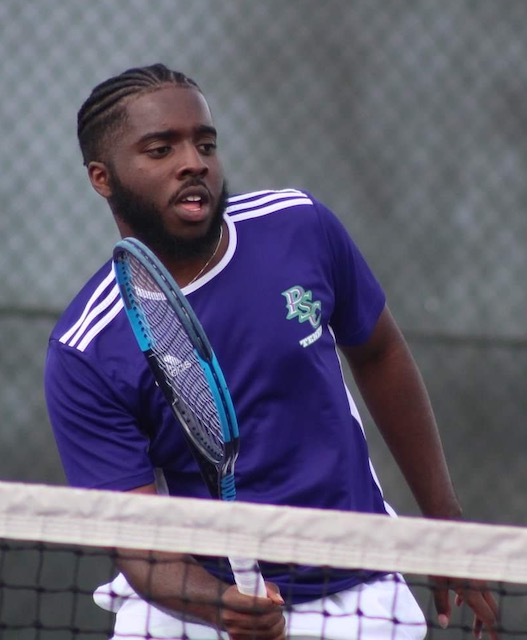
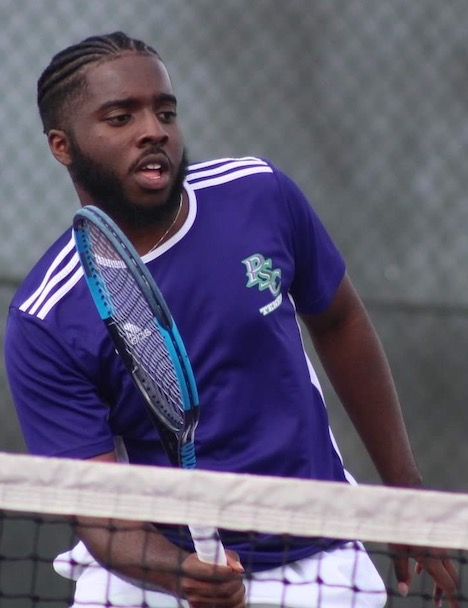
Insert new tennis image

diff --git a/index.html b/index.html
@@ -31,7 +31,7 @@ I hope to have a career that challanges me and builds my skills.
 </main>
 
   <figure class="tennis">
-    <img src="assets/img/tennis1.JPG"
+    <img src="assets/img/tennis2.JPG"
     alt="Me playing tennis" />
     <figcaption>
       Here is a photo of me playing tennis on my college team in 2019.
